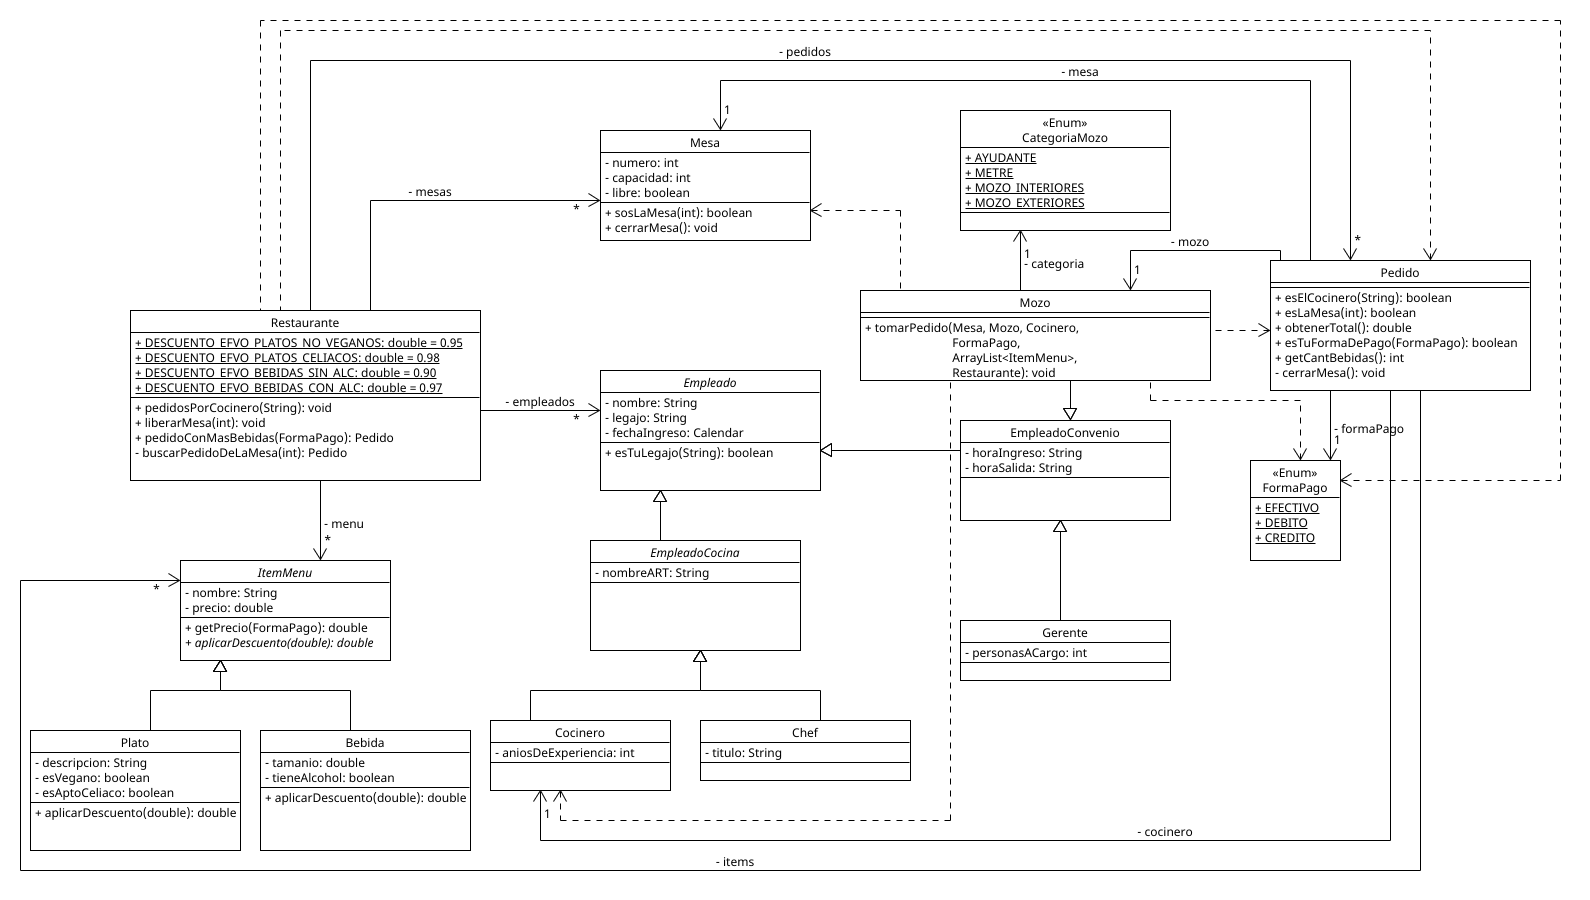
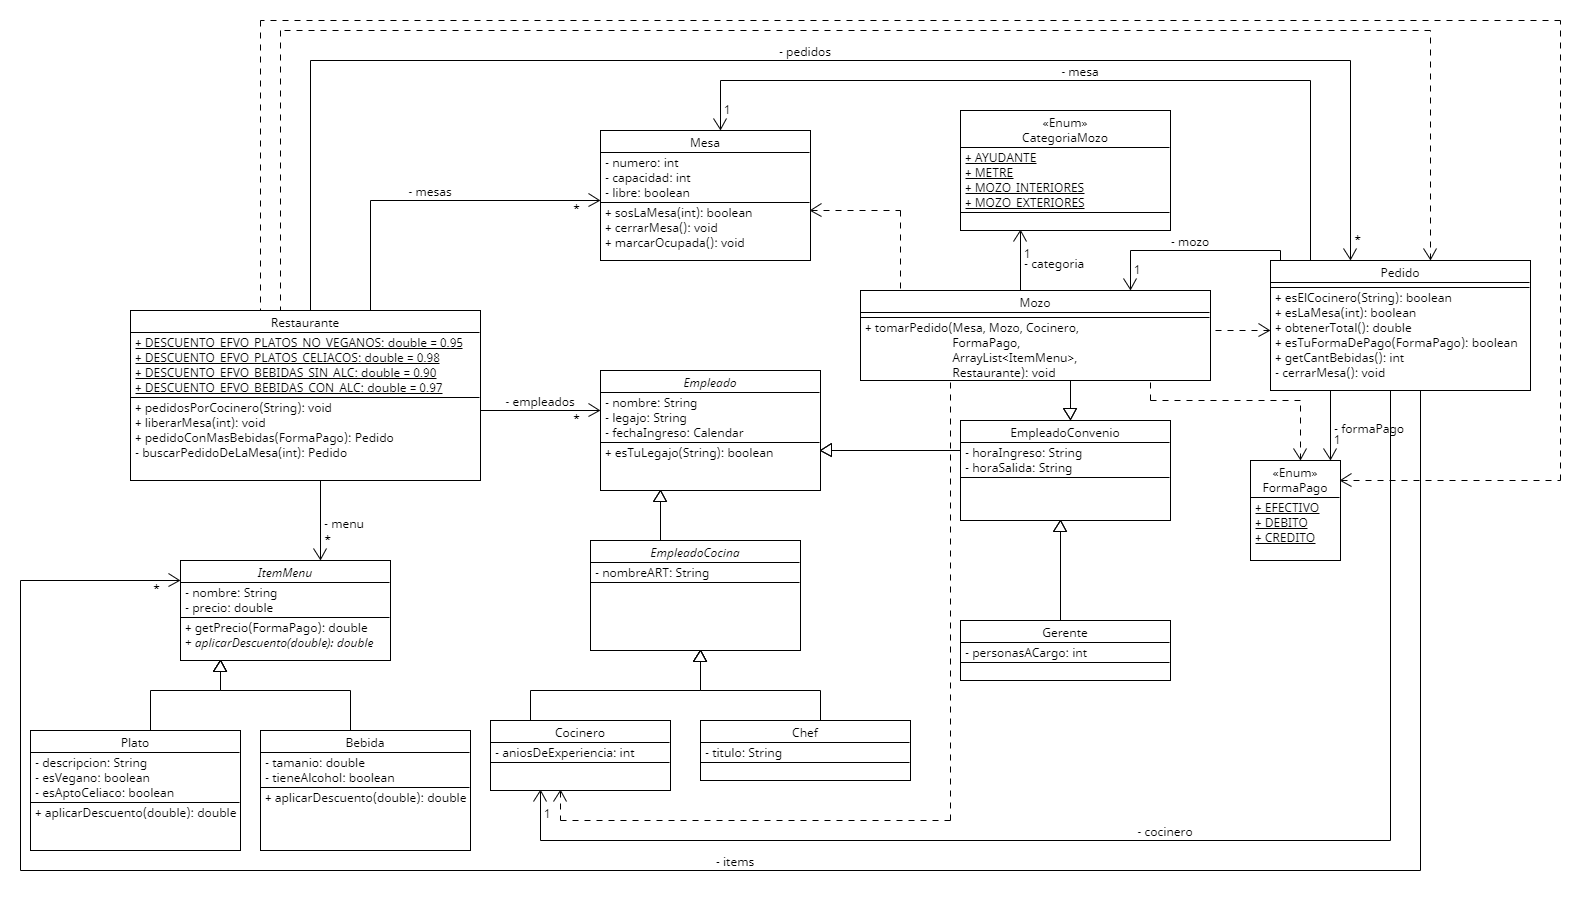
Agregué marcado de mesa como ocupada.

diff --git a/TrabajoPractico3/src/ar/edu/ort/ejercicio14/Mesa.java b/TrabajoPractico3/src/ar/edu/ort/ejercicio14/Mesa.java
@@ -7,6 +7,7 @@ public class Mesa {
 
     public Mesa(int numero) {
         this.numero = numero;
+        libre = true;
     }
 
     public void cerrarMesa() {
@@ -23,5 +24,9 @@ public class Mesa {
                 "numero=" + numero +
                 ", libre=" + libre +
                 '}';
+    }
+
+    public void marcarOcupada() {
+        libre = false;
     }
 }

diff --git a/TrabajoPractico3/src/ar/edu/ort/ejercicio14/empleados/Mozo.java b/TrabajoPractico3/src/ar/edu/ort/ejercicio14/empleados/Mozo.java
@@ -18,5 +18,6 @@ public class Mozo extends EmpleadoConvenio {
                               ArrayList<ItemMenu> items,
                               Restaurante r) {
         r.agregarPedido(new Pedido(this, me, fp, c, items));
+        me.marcarOcupada();
     }
 }
